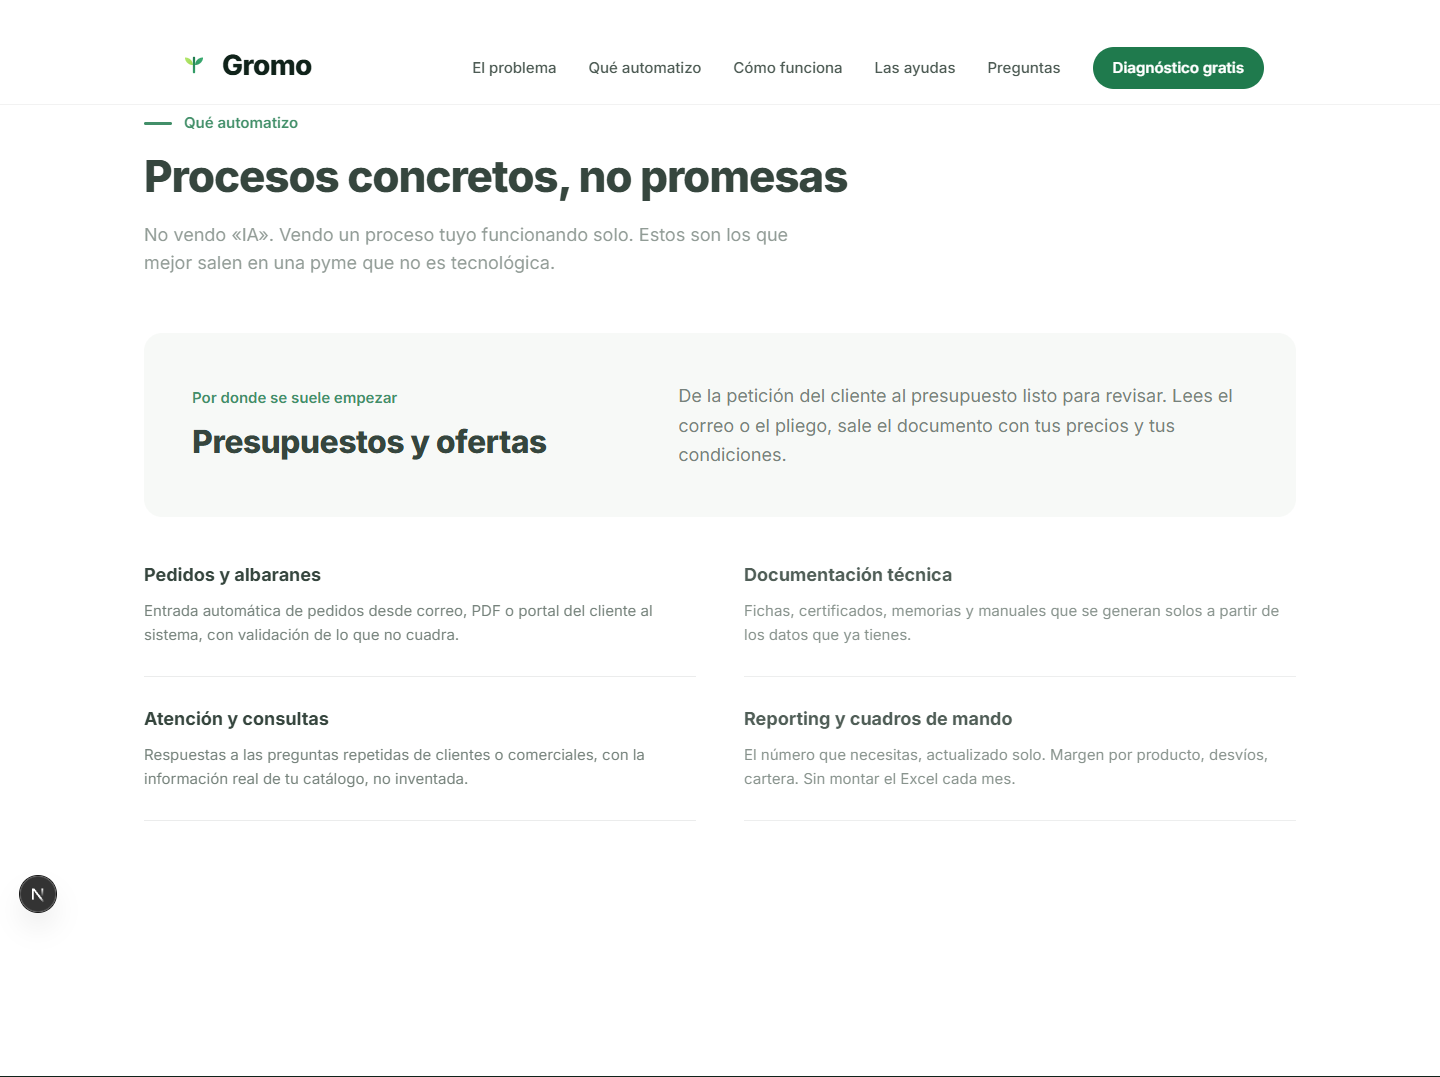
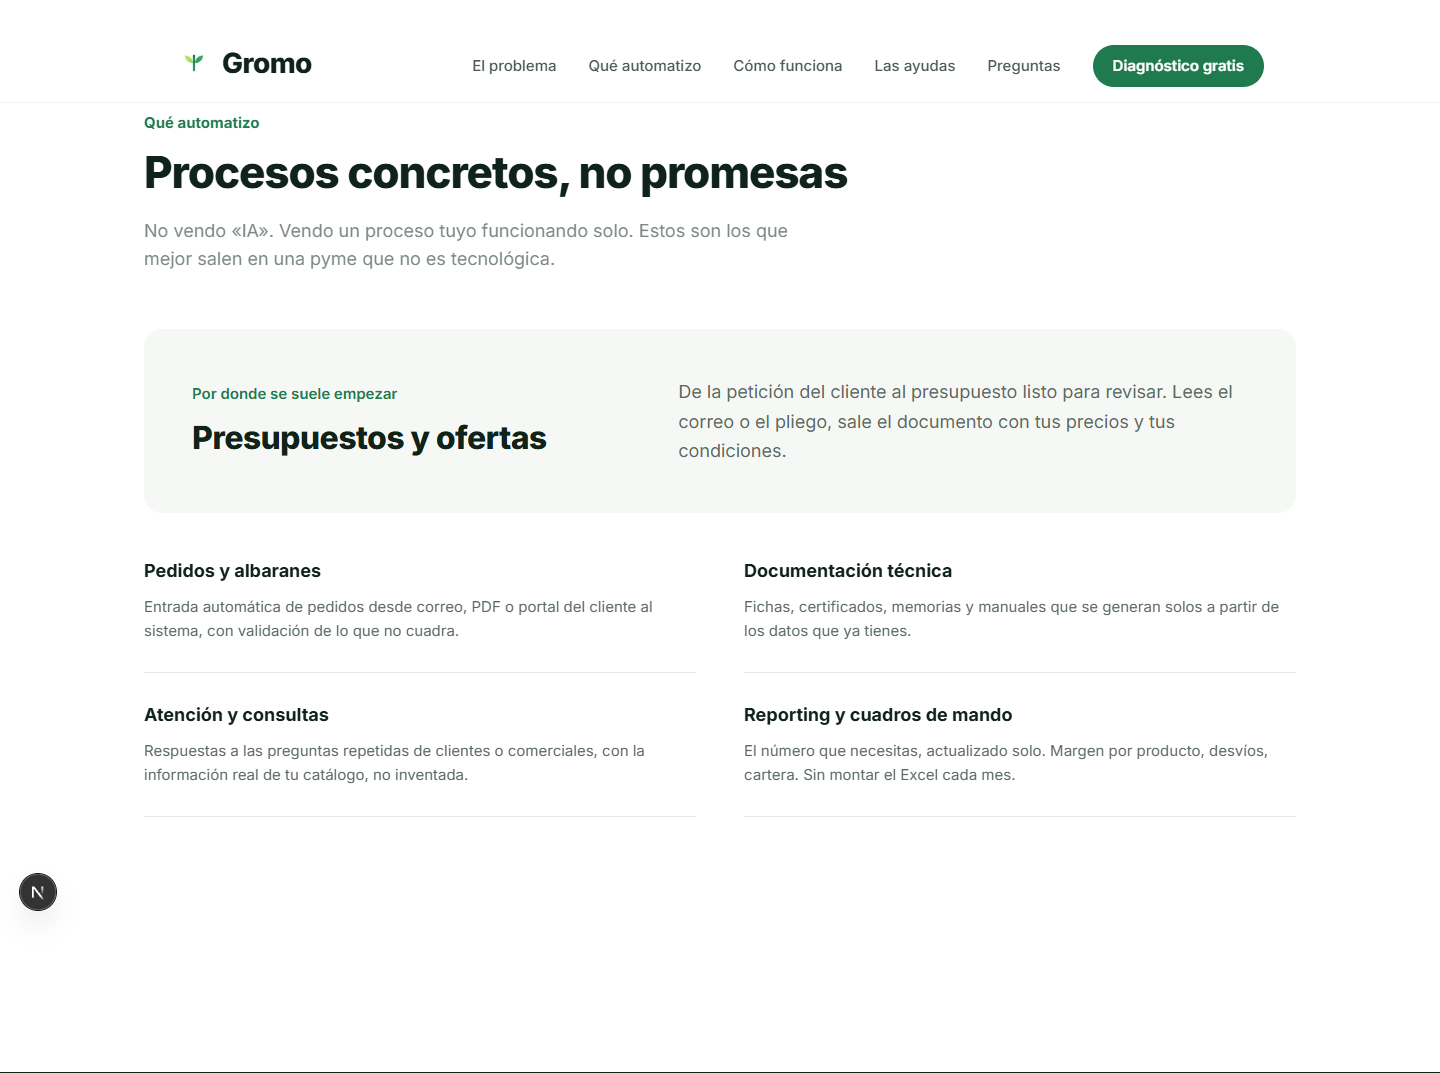
fix(web): quita el filete de los antetitulos y corrige el formato de euros
Auditado con Playwright (scripts/auditar-antetitulos.mjs): el filete corto
aparecia 8 veces. Repetido asi dejaba de leerse como motivo de marca y
pasaba a leerse como tic, y ademas una raya suelta no dice nada de Gromo.
Fuera: el color verde y el peso ya separan la etiqueta del titular.

La auditoria destapo de paso un fallo real en la calculadora de ayudas. En
espanol los numeros de cuatro cifras no llevan punto de millar, asi que Intl
escribia "5000 EUR" mientras el resto de la web y los materiales de venta
escriben "5.000". Forzado useGrouping: en estas cifras manda la coherencia,
porque son la comparacion que el visitante se lleva.

Las capturas de seccion esperan ahora 1,4 s en vez de 250 ms: el revelado
dura 700 ms mas el escalonado, y salian elementos a medio aparecer que
parecian un fallo de opacidad.

diff --git a/src/components/ui/seccion.tsx b/src/components/ui/seccion.tsx
@@ -37,11 +37,11 @@ export function Seccion({
  *
  * Caja baja y tracking normal a propósito: la etiqueta en mayúsculas con
  * letra muy espaciada ("EL PROBLEMA", "LAS AYUDAS") es el atajo tipográfico
- * más reconocible de una página generada, y no aporta nada que el tamaño y
- * el color no hagan ya.
+ * más reconocible de una página generada.
  *
- * El motivo de identidad es el filete corto que la precede: es el tallo del
- * brote, tumbado, y se repite en todas las secciones.
+ * Sin adorno delante. Llevaba un filete corto y, repetido ocho veces, dejaba
+ * de leerse como motivo y pasaba a leerse como tic. El color de marca y el
+ * peso ya separan la etiqueta del titular sin necesidad de dibujar nada.
  */
 export function Antetitulo({
   children,
@@ -53,11 +53,10 @@ export function Antetitulo({
   return (
     <p
       className={cn(
-        "mb-4 flex items-center gap-3 text-[15px] font-semibold",
+        "mb-3 text-[15px] font-bold",
         tono === "tinta" ? "text-gromo-lima" : "text-gromo-verde-oscuro",
       )}
     >
-      <span aria-hidden className="h-[3px] w-7 rounded-full bg-current" />
       {children}
     </p>
   );

diff --git a/src/components/sections/Hero.tsx b/src/components/sections/Hero.tsx
@@ -17,13 +17,10 @@ export function Hero() {
     <section className="relative isolate overflow-hidden bg-gromo-tinta text-gromo-hueso">
       <div className="relative mx-auto grid w-full max-w-6xl items-center gap-12 px-5 pt-[124px] pb-20 sm:px-8 sm:pt-36 sm:pb-28 lg:grid-cols-[1.05fr_0.95fr] lg:gap-8 lg:pt-40">
         <div>
-          {/* Mismo filete que los antetítulos de sección: es el motivo de
-              identidad, no una cápsula decorativa. */}
           <p
             style={entrar(80)}
-            className="mb-6 flex items-center gap-3 text-[15px] font-semibold text-gromo-lima"
+            className="mb-4 text-[15px] font-bold text-gromo-lima"
           >
-            <span aria-hidden className="h-[3px] w-7 rounded-full bg-current" />
             {HERO.antetitulo}
           </p>
 

diff --git a/src/components/sections/Ayudas.tsx b/src/components/sections/Ayudas.tsx
@@ -6,10 +6,19 @@ import { Revelar } from "@/components/ui/revelar";
 import { AYUDAS } from "@/lib/contenido";
 import { cn } from "@/lib/utils";
 
+/**
+ * useGrouping en true a propósito.
+ *
+ * En español los números de cuatro cifras no llevan punto de millar, así que
+ * por defecto Intl escribe "5000 €". Es correcto, pero el resto de la web y
+ * los materiales de venta escriben "5.000 €", y aquí manda la coherencia:
+ * estas cifras son la comparación que el visitante se lleva en la cabeza.
+ */
 const EUROS = new Intl.NumberFormat("es-ES", {
   style: "currency",
   currency: "EUR",
   maximumFractionDigits: 0,
+  useGrouping: true,
 });
 
 /**
